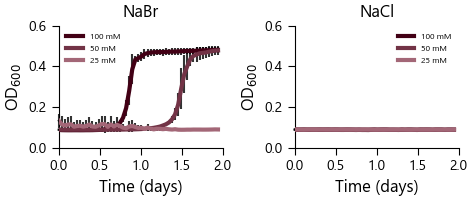
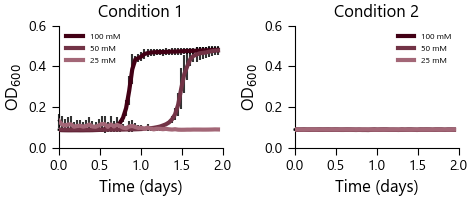
Generalized script

Changed region(s): [[0.7119, 0.0, 0.8898, 0.09], [0.2076, 0.0, 0.3856, 0.09]]

diff --git a/dynamicGrabber/dynamicGrabber.py b/dynamicGrabber/dynamicGrabber.py
@@ -139,7 +139,7 @@ def main():
   file = fileHandle+'.csv'
 
 
-  normalNames=["NaBr","NaCl"]
+  normalNames=["Condition 1","Condition 2"]
 
   divisor=10
   maxValue=1000
